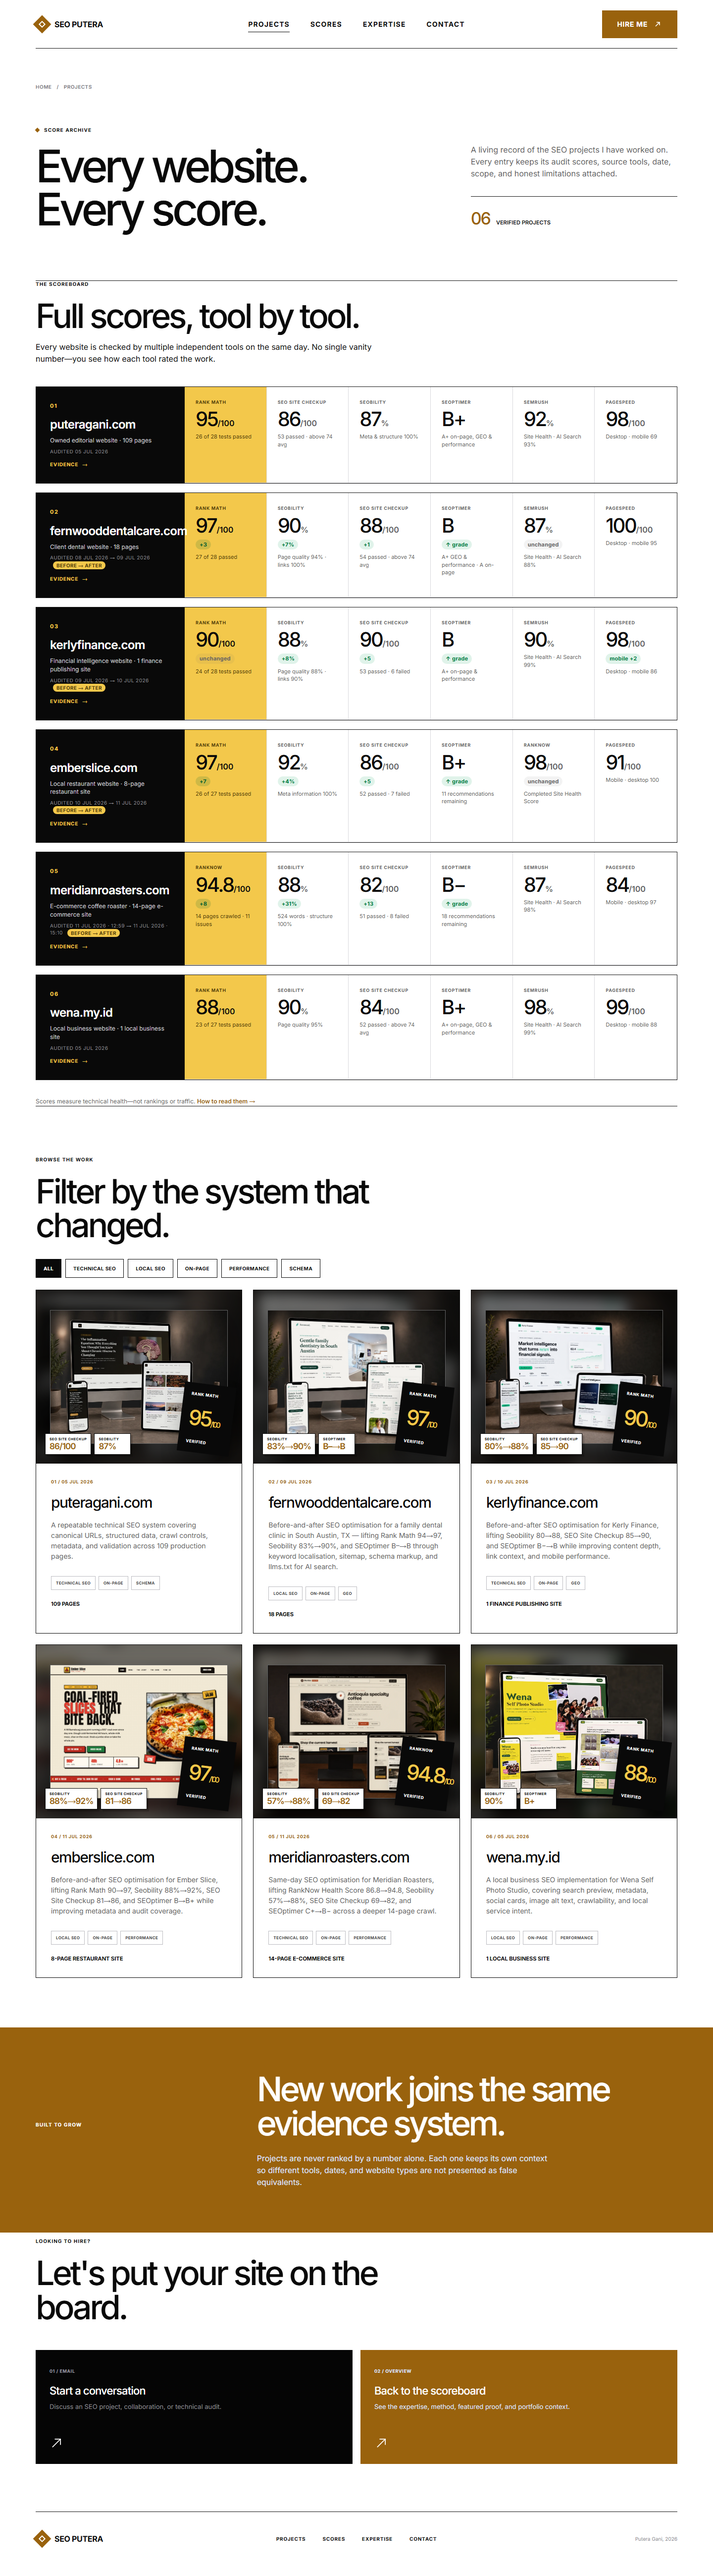
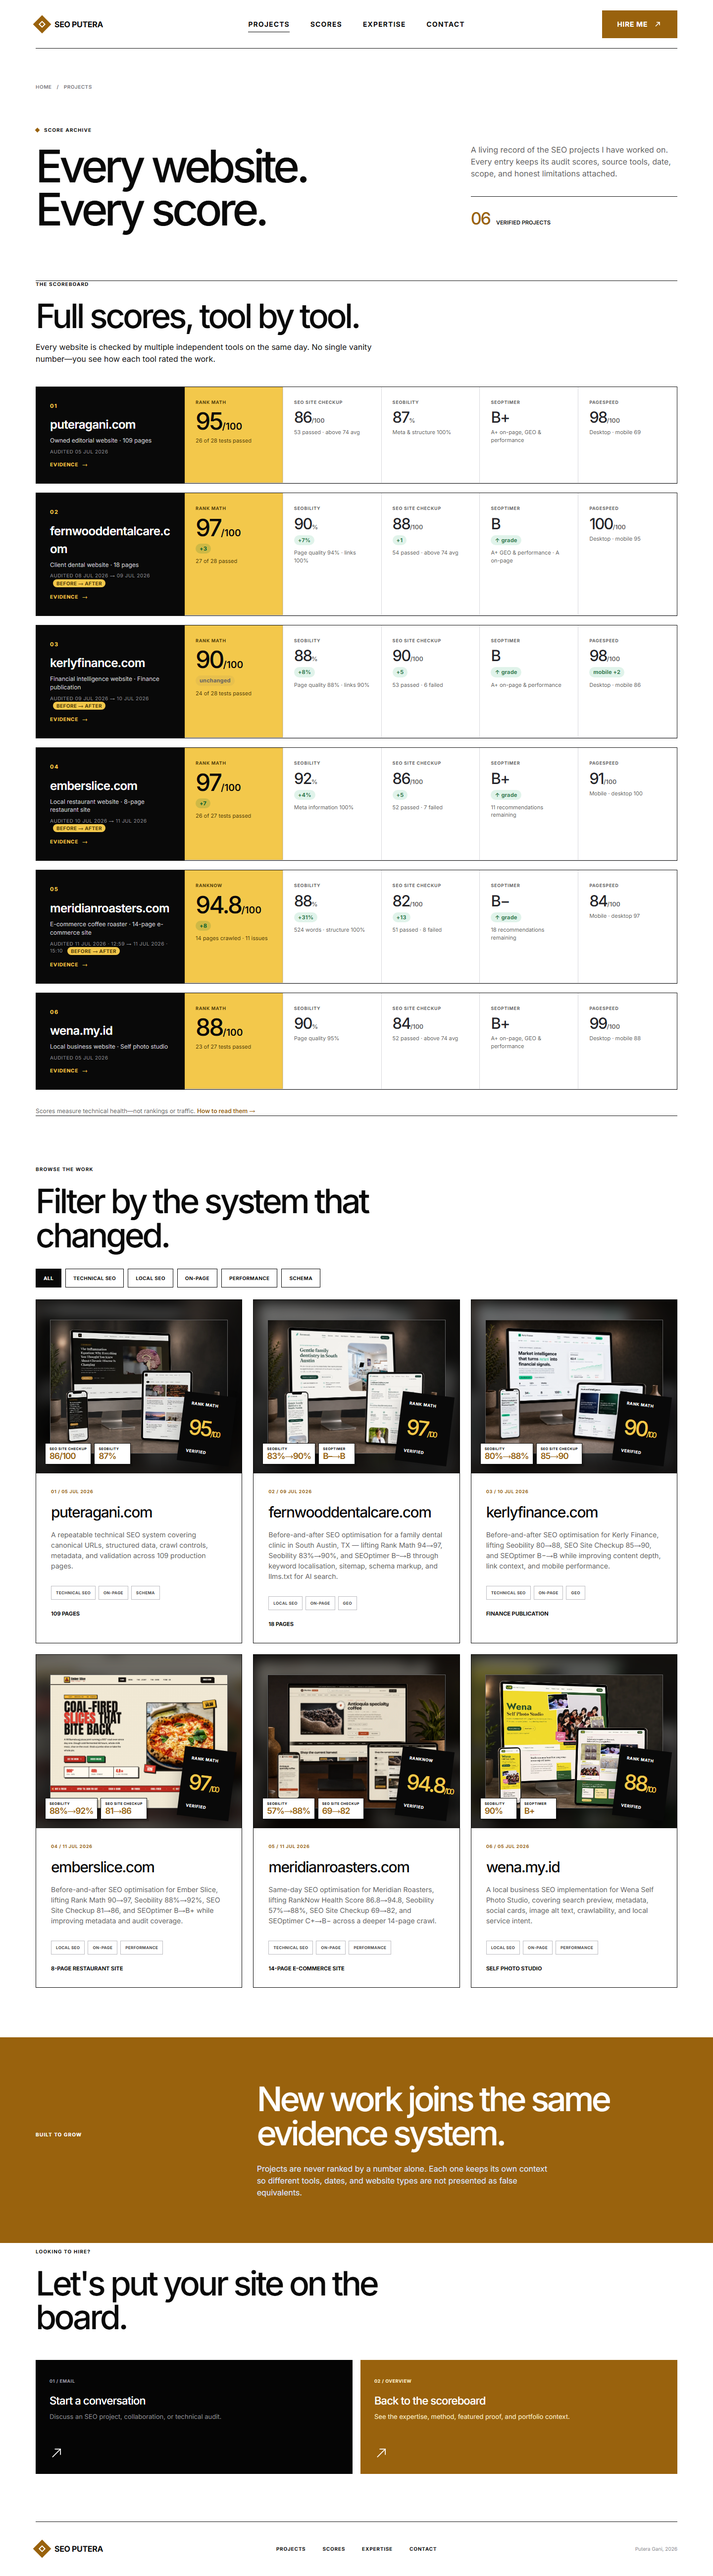
Simplify audit scoreboards and improve responsive layout

diff --git a/index.html b/index.html
@@ -4,7 +4,7 @@
     <meta charset="utf-8">
     <meta name="viewport" content="width=device-width, initial-scale=1">
     <title>SEO Putera | Verified SEO Scores &amp; Portfolio</title>
-    <meta name="description" content="See Putera Gani's real SEO audit scores — Rank Math, SEO Site Checkup, Seobility, SEOptimer, and Semrush — for live websites, with dated source reports you can inspect.">
+    <meta name="description" content="See Putera Gani's real SEO audit scores — Rank Math, SEO Site Checkup, Seobility, SEOptimer, and PageSpeed — for live websites, with dated source reports you can inspect.">
     <meta name="robots" content="index,follow,max-image-preview:large">
     <link rel="canonical" href="https://seo.puteragani.com/">
 
@@ -130,8 +130,8 @@
                 <span>Live sites audited</span>
               </div>
               <div class="hero-stat">
-                <strong>7</strong>
-                <span>Independent audit tools</span>
+                <strong>5</strong>
+                <span>Core scores per site</span>
               </div>
               <div class="hero-stat">
                 <strong>94<small>/100</small></strong>
@@ -167,7 +167,7 @@
             <span>SEO SITE CHECKUP</span>
             <span>SEOBILITY</span>
             <span>SEOPTIMER</span>
-            <span>SEMRUSH</span>
+            <span>PAGESPEED</span>
           </div>
         </section>
 
@@ -218,11 +218,6 @@
                   <span class="score-chip-note">A+ on-page, GEO &amp; performance</span>
                 </div>
                 <div class="score-chip">
-                  <span class="score-chip-tool">Semrush</span>
-                  <strong class="score-chip-value">92<small>%</small></strong>
-                  <span class="score-chip-note">Site Health · AI Search 93%</span>
-                </div>
-                <div class="score-chip">
                   <span class="score-chip-tool">PageSpeed</span>
                   <strong class="score-chip-value">98<small>/100</small></strong>
                   <span class="score-chip-note">Desktop · mobile 69</span>
@@ -266,12 +261,6 @@
                   <span class="score-chip-note">A+ GEO &amp; performance · A on-page</span>
                 </div>
                 <div class="score-chip">
-                  <span class="score-chip-tool">Semrush</span>
-                  <strong class="score-chip-value">87<small>%</small></strong>
-                  <span class="score-delta is-same">unchanged</span>
-                  <span class="score-chip-note">Site Health · AI Search 88%</span>
-                </div>
-                <div class="score-chip">
                   <span class="score-chip-tool">PageSpeed</span>
                   <strong class="score-chip-value">100<small>/100</small></strong>
                   <span class="score-chip-note">Desktop · mobile 95</span>
@@ -313,11 +302,6 @@
                   <strong class="score-chip-value">B<small></small></strong>
                   <span class="score-delta is-up">↑ grade</span>
                   <span class="score-chip-note">A+ on-page &amp; performance</span>
-                </div>
-                <div class="score-chip">
-                  <span class="score-chip-tool">Semrush</span>
-                  <strong class="score-chip-value">90<small>%</small></strong>
-                  <span class="score-chip-note">Site Health · AI Search 99%</span>
                 </div>
                 <div class="score-chip">
                   <span class="score-chip-tool">PageSpeed</span>
@@ -364,12 +348,6 @@
                   <span class="score-chip-note">11 recommendations remaining</span>
                 </div>
                 <div class="score-chip">
-                  <span class="score-chip-tool">RankNow</span>
-                  <strong class="score-chip-value">98<small>/100</small></strong>
-                  <span class="score-delta is-same">unchanged</span>
-                  <span class="score-chip-note">Completed Site Health Score</span>
-                </div>
-                <div class="score-chip">
                   <span class="score-chip-tool">PageSpeed</span>
                   <strong class="score-chip-value">91<small>/100</small></strong>
                   <span class="score-chip-note">Mobile · desktop 100</span>
@@ -413,11 +391,6 @@
                   <span class="score-chip-note">18 recommendations remaining</span>
                 </div>
                 <div class="score-chip">
-                  <span class="score-chip-tool">Semrush</span>
-                  <strong class="score-chip-value">87<small>%</small></strong>
-                  <span class="score-chip-note">Site Health · AI Search 98%</span>
-                </div>
-                <div class="score-chip">
                   <span class="score-chip-tool">PageSpeed</span>
                   <strong class="score-chip-value">84<small>/100</small></strong>
                   <span class="score-chip-note">Mobile · desktop 97</span>
@@ -455,11 +428,6 @@
                   <span class="score-chip-tool">SEOptimer</span>
                   <strong class="score-chip-value">B+<small></small></strong>
                   <span class="score-chip-note">A+ on-page, GEO &amp; performance</span>
-                </div>
-                <div class="score-chip">
-                  <span class="score-chip-tool">Semrush</span>
-                  <strong class="score-chip-value">98<small>%</small></strong>
-                  <span class="score-chip-note">Site Health · AI Search 99%</span>
                 </div>
                 <div class="score-chip">
                   <span class="score-chip-tool">PageSpeed</span>

diff --git a/projects/index.html b/projects/index.html
@@ -98,11 +98,6 @@
                   <span class="score-chip-note">A+ on-page, GEO &amp; performance</span>
                 </div>
                 <div class="score-chip">
-                  <span class="score-chip-tool">Semrush</span>
-                  <strong class="score-chip-value">92<small>%</small></strong>
-                  <span class="score-chip-note">Site Health · AI Search 93%</span>
-                </div>
-                <div class="score-chip">
                   <span class="score-chip-tool">PageSpeed</span>
                   <strong class="score-chip-value">98<small>/100</small></strong>
                   <span class="score-chip-note">Desktop · mobile 69</span>
@@ -146,12 +141,6 @@
                   <span class="score-chip-note">A+ GEO &amp; performance · A on-page</span>
                 </div>
                 <div class="score-chip">
-                  <span class="score-chip-tool">Semrush</span>
-                  <strong class="score-chip-value">87<small>%</small></strong>
-                  <span class="score-delta is-same">unchanged</span>
-                  <span class="score-chip-note">Site Health · AI Search 88%</span>
-                </div>
-                <div class="score-chip">
                   <span class="score-chip-tool">PageSpeed</span>
                   <strong class="score-chip-value">100<small>/100</small></strong>
                   <span class="score-chip-note">Desktop · mobile 95</span>
@@ -193,11 +182,6 @@
                   <strong class="score-chip-value">B<small></small></strong>
                   <span class="score-delta is-up">↑ grade</span>
                   <span class="score-chip-note">A+ on-page &amp; performance</span>
-                </div>
-                <div class="score-chip">
-                  <span class="score-chip-tool">Semrush</span>
-                  <strong class="score-chip-value">90<small>%</small></strong>
-                  <span class="score-chip-note">Site Health · AI Search 99%</span>
                 </div>
                 <div class="score-chip">
                   <span class="score-chip-tool">PageSpeed</span>
@@ -244,12 +228,6 @@
                   <span class="score-chip-note">11 recommendations remaining</span>
                 </div>
                 <div class="score-chip">
-                  <span class="score-chip-tool">RankNow</span>
-                  <strong class="score-chip-value">98<small>/100</small></strong>
-                  <span class="score-delta is-same">unchanged</span>
-                  <span class="score-chip-note">Completed Site Health Score</span>
-                </div>
-                <div class="score-chip">
                   <span class="score-chip-tool">PageSpeed</span>
                   <strong class="score-chip-value">91<small>/100</small></strong>
                   <span class="score-chip-note">Mobile · desktop 100</span>
@@ -293,11 +271,6 @@
                   <span class="score-chip-note">18 recommendations remaining</span>
                 </div>
                 <div class="score-chip">
-                  <span class="score-chip-tool">Semrush</span>
-                  <strong class="score-chip-value">87<small>%</small></strong>
-                  <span class="score-chip-note">Site Health · AI Search 98%</span>
-                </div>
-                <div class="score-chip">
                   <span class="score-chip-tool">PageSpeed</span>
                   <strong class="score-chip-value">84<small>/100</small></strong>
                   <span class="score-chip-note">Mobile · desktop 97</span>
@@ -335,11 +308,6 @@
                   <span class="score-chip-tool">SEOptimer</span>
                   <strong class="score-chip-value">B+<small></small></strong>
                   <span class="score-chip-note">A+ on-page, GEO &amp; performance</span>
-                </div>
-                <div class="score-chip">
-                  <span class="score-chip-tool">Semrush</span>
-                  <strong class="score-chip-value">98<small>%</small></strong>
-                  <span class="score-chip-note">Site Health · AI Search 99%</span>
                 </div>
                 <div class="score-chip">
                   <span class="score-chip-tool">PageSpeed</span>

diff --git a/assets/css/styles.css b/assets/css/styles.css
@@ -2925,6 +2925,9 @@ button {
   font-size: 24px;
   font-weight: 600;
   letter-spacing: -0.03em;
+  max-width: 100%;
+  overflow-wrap: anywhere;
+  word-break: break-word;
 }
 
 .scoreboard-site > div > p {
@@ -2959,7 +2962,7 @@ button {
 
 .scoreboard-scores {
   display: grid;
-  grid-template-columns: repeat(6, minmax(0, 1fr));
+  grid-template-columns: repeat(5, minmax(0, 1fr));
 }
 
 .score-chip-empty {
@@ -3056,7 +3059,7 @@ button {
 
 @media (max-width: 1100px) {
   .scoreboard-scores {
-    grid-template-columns: repeat(6, minmax(0, 1fr));
+    grid-template-columns: repeat(5, minmax(0, 1fr));
   }
 }
 
@@ -3077,6 +3080,10 @@ button {
 
   .scoreboard-scores {
     grid-template-columns: repeat(2, 1fr);
+  }
+
+  .scoreboard-scores .score-chip.is-primary {
+    grid-column: 1 / -1;
   }
 
   .score-chip-empty {
